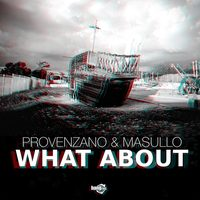
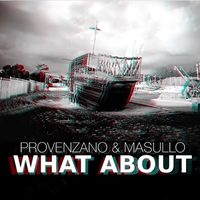
What About: i nomi delle versioni dalle schede Discogs, e la sua copertina
- le undici versioni prendono la grafia dell'etichetta, «Denny Berland
  Remix» invece di «Remix by Denny Berland» come lo scrive Spotify
- copertina 744x721 mandata da lui

diff --git a/discografia/what-about/index.html b/discografia/what-about/index.html
@@ -122,7 +122,7 @@ footer .contenitore{display:flex;justify-content:space-between;gap:14px;flex-wra
     </div>
   </article>
 
-  <section class="blocco"><h3>Le versioni</h3><ul class="versioni"><li><span class="tit">Radio Edit 3:09</span></li><li><span class="tit">Extended Version 4:10</span></li><li><span class="tit">Remix by Denny Berland 4:37</span></li><li><span class="tit">Remix by Silvio Carrano 5:15</span></li><li><span class="tit">90 Dub Mix by Luca Guerrieri 4:06</span></li><li><span class="tit">Remix by Paolo Pellegrino 4:18</span></li><li><span class="tit">Remix by Valentini 3:09</span></li><li><span class="tit">Remix by Umberto Balzanelli &amp; Michelle 4:46</span></li><li><span class="tit">Remix by Andry B &amp; JJ 4:27</span></li><li><span class="tit">Remix by Francesco Sparacello &amp; Loris Buono 4:47</span></li><li><span class="tit">Remix by Storm 5:21</span></li></ul></section>
+  <section class="blocco"><h3>Le versioni</h3><ul class="versioni"><li><span class="tit">Radio Edit 3:09</span></li><li><span class="tit">Extended Version 4:10</span></li><li><span class="tit">Denny Berland Remix 4:37</span></li><li><span class="tit">Silvio Carrano Remix 5:15</span></li><li><span class="tit">Luca Guerrieri Remix, 90 Dub Mix 4:06</span></li><li><span class="tit">Paolo Pellegrino Remix 4:18</span></li><li><span class="tit">Valentini Remix 3:09</span></li><li><span class="tit">Umberto Balzanelli &amp; Michelle Remix 4:46</span></li><li><span class="tit">Andry B &amp; JJ Remix 4:27</span></li><li><span class="tit">Francesco Sparacello &amp; Loris Buono Remix 4:47</span></li><li><span class="tit">Storm Remix 5:21</span></li></ul></section>
   <section class="blocco"><h3>Inserita in una compilation</h3><ul class="compilation"><li><a href="/compilation/m2o-summer-xperience/">m2o Summer Xperience</a><span class="anno">2016</span></li></ul></section>
   <section class="blocco"><h3>Ascolta</h3><div class="didascalia">il singolo, quattro versioni</div><iframe class="spotify" loading="lazy" src="https://open.spotify.com/embed/album/5HedcRY1iVmfSHdJWsUgp3" height="152" frameborder="0" allow="encrypted-media"></iframe><div class="didascalia">l&#x27;EP dei remix, sette versioni</div><iframe class="spotify" loading="lazy" src="https://open.spotify.com/embed/album/5OOl6YsiqEfspt8Zx3aEHi" height="152" frameborder="0" allow="encrypted-media"></iframe></section>
   <section class="blocco"><h3>Il video</h3><div class="video"><iframe src="https://www.youtube-nocookie.com/embed/OFvjfNM-amU" title="What About" loading="lazy" frameborder="0" allowfullscreen allow="accelerometer; clipboard-write; encrypted-media; gyroscope; picture-in-picture; web-share" referrerpolicy="strict-origin-when-cross-origin"></iframe></div><div class="didascalia">videoclip ufficiale · Bang Record, Official Video</div></section>
